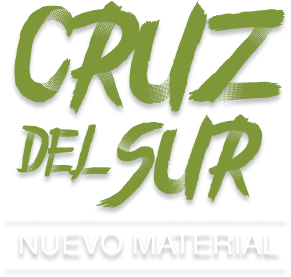
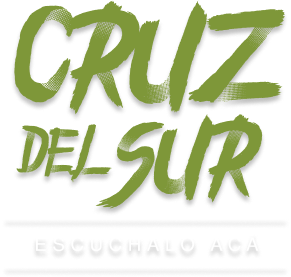
spotify link added on img

diff --git a/index.html b/index.html
@@ -35,7 +35,10 @@
             <div class="row align-items-center">
 
                 <div class="col-12 col-md-6 pb-5 pb-md-0">
-                    <img class="cruz-sur" src="img/nuevo-material.png" alt="">
+                    <a href="https://open.spotify.com/album/3XP7nsNixOt1OsZeXAmRp8?si=Y7ieRs2GSVmr6QD5LjAcIg&dl_branch=1" target="blank_">
+                        <img class="cruz-sur" src="img/nuevo-material2.png" alt="">
+                    </a>
+
                 </div>
 
                 <div class="col-12 col-md-6">
